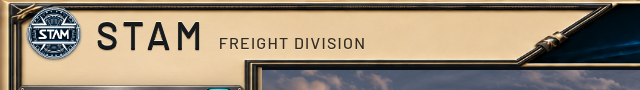
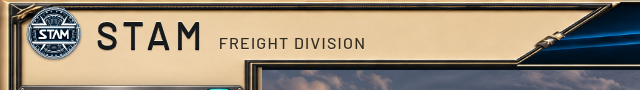
Use dedicated glass and gunmetal assets with continuous header

diff --git a/apps/control-room/src/ShellMaterial.tsx b/apps/control-room/src/ShellMaterial.tsx
@@ -1,5 +1,6 @@
-import {useLayoutEffect,useRef} from 'react';
-import accent from './assets/navigation/shell-gold-gunmetal.png';
+import {useId,useLayoutEffect,useRef} from 'react';
+import glass from './assets/navigation/shell-top-glass.png';
+import gunmetal from './assets/navigation/shell-side-gunmetal.png';
 import ornament from './assets/navigation/shell-gold-ornament.png';
 
 /** A clean material asset, with no baked-in controls or room screenshot.
@@ -10,6 +11,7 @@ import ornament from './assets/navigation/shell-gold-ornament.png';
  * The material stays in the chrome and never covers the scene aperture. */
 export function ShellMaterial(){
  const root=useRef<HTMLDivElement>(null);
+ const goldClip=useId();
  useLayoutEffect(()=>{
   const material=root.current,shell=material?.closest('.space-experience');
   const sidebar=shell?.querySelector<HTMLElement>('.space-sidebar');
@@ -35,17 +37,18 @@ export function ShellMaterial(){
   return()=>{observer.disconnect();cancelAnimationFrame(frame);sidebar.removeEventListener('scroll',schedule);window.removeEventListener('resize',schedule);};
  },[]);
  const pieces=[
-  ['join','0 0 216 102',ornament],
-  ['sweep','216 0 504 102',ornament],
-  ['top','720 0 810 102',accent],
-  ['top-end','1530 0 6 102',accent],
-  ['connector','0 102 216 300',ornament],
-  ['side','0 402 216 616',accent],
-  ['side-end','0 1018 216 6',accent],
- ];
+  ['top','0 0 1530 102',glass,1536,1024],
+  ['top-end','1530 0 6 102',glass,1536,1024],
+  ['join','0 0 216 102',ornament,1536,1024],
+  ['sweep','216 0 504 102',ornament,1536,1024],
+  ['connector','0 102 216 300',ornament,1536,1024],
+  ['side','0 0 384 1528',gunmetal,1024,1536],
+  ['side-end','0 1528 384 8',gunmetal,1024,1536],
+ ] as const;
  return <div ref={root} className="shell-material" aria-hidden="true">
-  {pieces.map(([part,viewBox,source])=><svg key={part} className={`shell-piece shell-${part}`} viewBox={viewBox} preserveAspectRatio="none" focusable="false">
-   <image href={source} x="0" y="0" width="1536" height="1024"/>
+  {pieces.map(([part,viewBox,source,width,height])=><svg key={part} className={`shell-piece shell-${part}`} viewBox={viewBox} preserveAspectRatio="none" focusable="false">
+   {part==='sweep'&&<defs><clipPath id={goldClip} clipPathUnits="userSpaceOnUse"><polygon points="216,0 670,0 663,10 539,98 536,102 216,102"/></clipPath></defs>}
+   <image clipPath={part==='sweep'?`url(#${goldClip})`:undefined} href={source} x="0" y="0" width={width} height={height}/>
   </svg>)}
  </div>;
 }

diff --git a/apps/control-room/src/black-gold-shell.css b/apps/control-room/src/black-gold-shell.css
@@ -47,7 +47,7 @@
 .shell-piece{position:absolute;display:block;overflow:hidden}
 .shell-join{left:0;top:0;width:var(--shell-sidebar-width);height:67px}
 .shell-sweep{left:var(--shell-sidebar-width);top:0;width:400px;height:67px}
-.shell-top{left:calc(var(--shell-sidebar-width) + 400px);right:4px;top:0;width:calc(100% - var(--shell-sidebar-width) - 404px);height:67px}
+.shell-top{left:var(--shell-sidebar-width);right:4px;top:0;width:calc(100% - var(--shell-sidebar-width) - 4px);height:67px}
 .shell-top-end{right:0;top:0;width:4px;height:67px}
 .shell-connector{left:0;top:67px;width:var(--shell-sidebar-width);height:var(--shell-connector-height,164px)}
 .shell-side{left:0;top:calc(67px + var(--shell-connector-height,164px));width:var(--shell-sidebar-width);height:max(0px,calc(100% - 73px - var(--shell-connector-height,164px)))}
@@ -88,7 +88,7 @@
  .shell-piece{height:120px}
  .shell-join{width:240px}
  .shell-sweep{left:240px;width:110px}
- .shell-top{left:350px;right:4px;width:max(0px,calc(100% - 354px))}
+ .shell-top{left:240px;right:4px;width:max(0px,calc(100% - 244px))}
  .shell-top-end{width:4px}
  .space-sidebar :is(.space-group-button,.space-division-button){height:72px;min-height:72px}
  .space-sidebar :is(.space-group-button,.space-division-button) strong{font-size:17px}
@@ -104,7 +104,6 @@
  .space-experience .space-topbar .pilot-connections button{min-width:105px;padding-inline:8px;gap:5px}
  .space-experience .space-topbar .space-download{padding-inline:8px}
  .shell-sweep{width:200px}
- .shell-top{left:calc(var(--shell-sidebar-width) + 200px);width:calc(100% - var(--shell-sidebar-width) - 204px)}
 }
 
 /* Guide playback occupies the same scene cell as the lounge, including while

diff --git a/docs/cinematics/shell-layout-fix-20261118/HANDOFF.md b/docs/cinematics/shell-layout-fix-20261118/HANDOFF.md
@@ -8,11 +8,13 @@
 
 금색 이름판을 오른쪽으로 연장하고 곡선 대신 직선 사선으로 바꿨다. `STAM FREIGHT DIVISION`은 한 줄이며 STAM38px, 부제16px의 Barlow500 실제 텍스트다. 원형 로고60px·검은 입체 글씨를 유지했다. 761–1000px에서는44/30/12px로 줄여 버튼과 가로 넘침을 피하고, 모바일은40/27/10px 한 줄 브랜드에 기존 컨트롤을 줄바꿈한다. 데스크톱 상단67px와 장면 셀은 유지한다.
 
-사용자가 회색/백금처럼 보인다고 지적한 시안은 사용하지 않는다. 최신 생성본은 따뜻한 샴페인 골드, 미세한 표면결, 사선 절삭면의 이중 가공 홈과 단차, 모서리의 짧은 가공 표시를 포함한다. 최종 원본 `/workspace/generated_images/exec-6b323f54-03a4-4b51-9653-3e6736ce2f8e.png`. 중간 시안과 기존 원본은 제작 폴더에 보존했다. `assets/provenance.json`에 최종 출처/해시/일곱 구간을 기록했다.
+사용자가 회색/백금처럼 보인다고 지적한 시안은 사용하지 않는다. 최신 생성본은 따뜻한 샴페인 골드, 미세한 표면결, 사선 절삭면의 이중 가공 홈과 단차, 모서리의 짧은 가공 표시를 포함한다. 금색 장식 원본 `/workspace/generated_images/exec-51bc0099-c9a9-4295-812b-76d3e0b6467d.png`. 중간 시안과 기존 원본은 제작 폴더에 보존했다. `assets/provenance.json`에 최종 출처/해시/일곱 구간을 기록했다.
 
-최신 후속: 2번 금색 하우징에만 얇은 유광 검은 금속 레일·작은 모서리 장식·사선 연결 장식을 추가했다. 단면 윗면은 평평하고 옆면으로 두께를 표현하며 가장자리에서 조금 안쪽에 놓인다. 두꺼운 둥근 몰딩은 교체했다. `shell-gold-ornament.png`를 join/sweep/connector 구간에만 연결한다. top/top-end/side/side-end는 기존 `shell-gold-gunmetal.png`를 그대로 사용한다. 금색2번 외의 큰 영역을 새 검은 테두리로 감싸지 않는다. 최종 원본 exec-51bc0099-c9a9-4295-812b-76d3e0b6467d.png. 본문/기능/CSS 배치 변경 없음.
+최신 후속: 2번 금색 하우징은 `shell-gold-ornament.png`의 얇은 유광 검은 레일·작은 모서리 장식·사선 장식을 유지한다. 1번 유리와3번 건메탈은 흐려 보인다는 후속 지적에 따라 별도 전용 에셋으로 다시 생성했다. 기존 유리810×102/건메탈216×616 구간 대신 유리1536×102, 건메탈384×1536 구간을 사용한다. 원본 캔버스는 각각1536×1024와1024×1536이며 4K 원본이나 모든 화면에서 픽셀1:1이라고 주장하지 않는다.
 
-이번 장식 수정 뒤 타입/빌드·320–1595px 브랜드5크기·하우징4상태 확인을 수행했다. 최신 실제 화면은 `review/brand-desktop.png`, `brand-mobile.png`, `housing-final.png`, `housing-expanded.png`. 그 외 여행/왕복 캡처와12개 기하 결과는 직전 배치 검증 기록이며 이번에는 배치를 바꾸지 않았다.
+`ShellMaterial.tsx`는 새 유리를 상단에 연속 렌더링하고 금색 사선의 윤곽만 그 위에 겹친다. 기존 이미지에 남은 유리 조각을 함께 그려 발생하던 이음새를 제거했다. 새 건메탈은 아래 사이드바와 끝 테두리에 사용한다. 실제 장면 크기·폰트·버튼·기능은 유지한다. 출처와 해시는 `assets/provenance.json`의 dedicatedMaterials를 참조. 이전 자산과 중간 시안은 보존한다.
+
+이번 분리 뒤 타입/빌드·브랜드5크기·기존 화면12개·하우징4상태를 다시 확인하고 review 최종 캡처를 갱신했다. 실제 계정/게임/iOS 실기기는 이번 범위 밖이다.
 
 상단의 직선 사선 구간 폭은400px(좁은 데스크톱200px), 나머지 유리만 가변 길이를 채운다. Sidebar 하우징은 콘솔 요약 하단과 메뉴 캡션 사이에서 직선 단차로 끝난다. 상세 콘솔은 기존처럼 메뉴 앞에 겹쳐 열린다. ResizeObserver와 스크롤 이벤트는 해제 시 정리한다. 기존 A콘솔/D버튼과 기능 상태는 변경하지 않는다.
 

diff --git a/PROJECT_STATUS.md b/PROJECT_STATUS.md
@@ -1,3 +1,7 @@
+## 2026-11-18 연출 — 유리1번·건메탈3번 전용 자산 재제작 / PR #42 미배포
+
+작은 이미지 구간 확대와 재질 흐림을 줄이기 위해1번/3번을 각각 재생성했다. 유리1536×102 및 건메탈384×1536 실제 사용 구간. 2번 금색 장식 자산은 유지하고 유리는 연속 배경+금색 윤곽 겹침으로 이음새를 제거했다. 본문·가이드 좌표·기능 유지. 실제 native크기/출처/해시/최종 캡처는 기존 인계에 기록. 타입·빌드, 브랜드5크기/화면12개/하우징4상태 검증. 병합·배포 없음. 아래는 이전 단계.
+
 ## 2026-11-18 연출 — 금색2번에만 장신구형 디테일 / PR #42 미배포
 
 2번 금색 하우징에 얇고 유광인 검은 금속 레일·작은 모서리 장식·사선 연결 장식을 추가했다. 평평한 윗면/입체 옆면이며 살짝 안쪽 배치. 두꺼운 둥근 몰딩과1·3번을 감싼 중간 시안은 적용하지 않는다. 새 shell-gold-ornament.png는 join/sweep/connector에만 연결하고 나머지는 기존 자산을 유지했다. 본문/기능/배치 변경 없음. 타입·빌드, 브랜드5크기 및 하우징4상태 확인. 인계 최종 캡처/출처 갱신, 병합·배포 없음. 아래는 이전 단계 기록.
